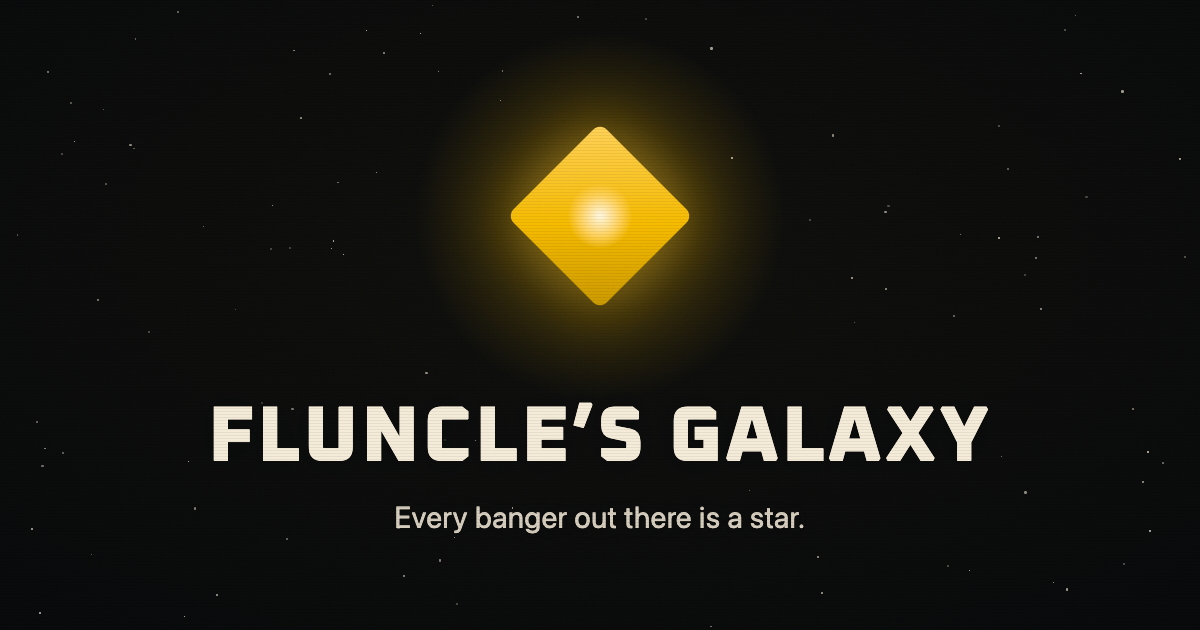
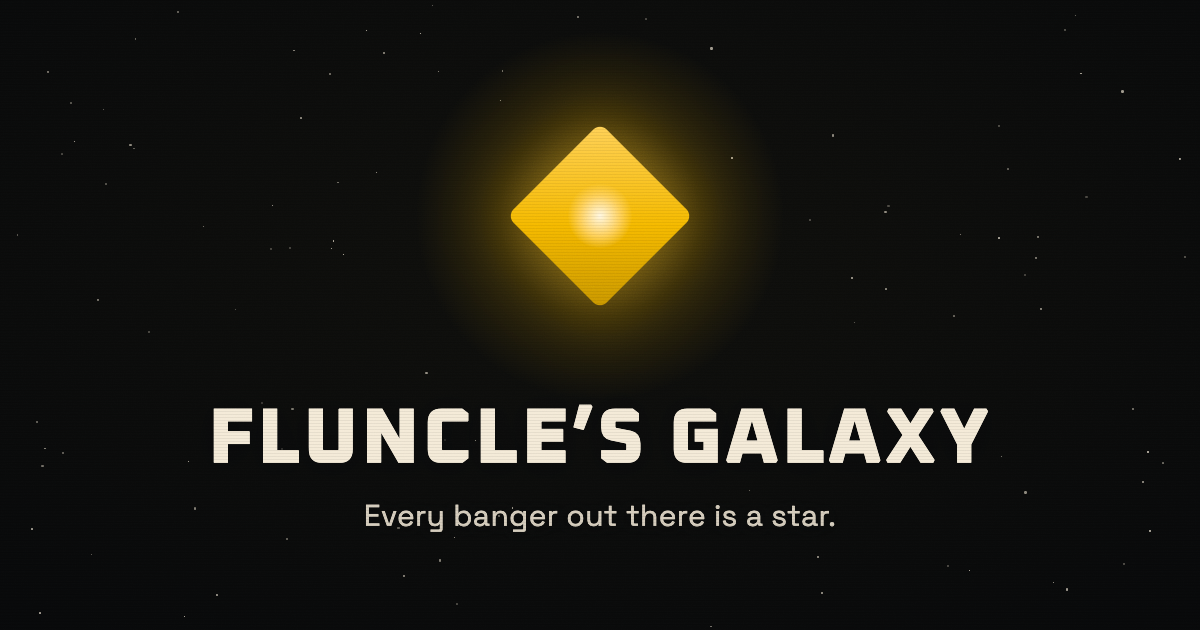
fix(media): the OG card's tagline was a different typeface on every render box (#470)
packages/media embedded Oxanium only — no body face at all. So the /galaxy OG
card's tagline ("Every banger out there is a star.") was set in a bare
`ui-sans-serif, system-ui, sans-serif`, which resolves to Helvetica on a Mac and
DejaVu Sans on a Linux render box: the SAME committed asset shipped in two
different typefaces depending on where it was built. That is a live instance of
the exact three-renderings bug the Canon Travels Rule was written to kill, in the
place the brand is most visible — a link preview.

Brings the package onto DESIGN.md §3:

- fonts.ts embeds Space Grotesk (the body face) alongside Oxanium, weights
  300-700 (700 is its axis ceiling — 800 clamps silently). Exports
  SPACE_GROTESK_STACK.
- BOTH faces now carry the One Box metric overrides (ascent/descent/line-gap),
  ratified in apps/web/src/styles.css. Oxanium previously carried NONE here, so
  its cap band sat 0.055em below its own box centre — the two faces would have
  disagreed on their metric box the moment they met. Subsets are split by
  unicodeRange exactly as the web declares them.
- galaxy-og.tsx sets the tagline in SPACE_GROTESK_STACK. FLUNCLE'S GALAXY stays
  Oxanium 800 (a brand mark). mixtape-cover.tsx is untouched: its coordinate and
  MIXTAPE #N are numerals/marks, so Oxanium is correct by canon.
- Re-rendered and committed apps/web/public/galaxy/og.png. It is a checked-in
  static asset, NOT built at deploy time — fixing the source alone would have
[…]

diff --git a/packages/media/src/remotion/fonts.ts b/packages/media/src/remotion/fonts.ts
@@ -1,10 +1,46 @@
-// Oxanium is the brand voice (DESIGN.md: numerals, marks, brand moments).
-// Loaded from local woff2 files in public/fonts via @remotion/fonts so renders
-// never touch the network. loadFont blocks the render until the font is ready.
+// The brand's two text faces, embedded for the render (DESIGN.md §3).
 //
-// Two subsets ship: latin and latin-ext. Both register under the same family
-// name ("Oxanium") so unicode-range fallback resolves automatically. The files
-// are byte-identical to the apps/web and packages/video copies.
+// Oxanium is the DISPLAY face: brand marks, plate mastheads, and every numeral /
+// coordinate / date. Space Grotesk is the BODY face: reading text, titles, labels.
+// Its variable axis stops at 700 — asking for 800 clamps silently, so no body role
+// may ask for it.
+//
+// THE CANON TRAVELS RULE (DESIGN.md §3). A render environment has no system fonts
+// to inherit and no stylesheet to cascade from, so it must EMBED the faces itself.
+// This package used to embed Oxanium ONLY, and the /galaxy OG card's tagline fell
+// through to a bare `sans-serif` — which resolves to Helvetica on a Mac and DejaVu
+// Sans on a Linux render box. The same committed asset rendered in two different
+// typefaces depending on where it was built: exactly the "three renderings, only one
+// of which we ever looked at" bug the canon exists to kill. Both faces ship now.
+//
+// THE ONE BOX RULE (DESIGN.md §3). Both faces are re-cut to the SAME 1.25em metric
+// box via ascent/descent/line-gap overrides, so that (ascent − descent) equals that
+// face's cap height and the cap band lands on the box centre. That is what makes a
+// plain `align-items: center` optically centre Oxanium and Space Grotesk together —
+// the brand mark and the tagline on one centre line, at any size. These numbers are
+// ratified and byte-for-byte the ones in apps/web/src/styles.css; they are
+// LOAD-BEARING — do not drop or re-derive them when updating a font.
+//
+// Two subsets per face (latin + latin-ext) register under one family name, split by
+// unicodeRange exactly as the web declares them, so glyph coverage resolves the same
+// way here as it does in the browser. The woff2 files under public/fonts are
+// byte-identical to the apps/web copies.
+//
+// WHY loadFont IS SAFE HERE (and is NOT in packages/video). loadFont calls
+// `new FontFace().load()`, and that Promise NEVER SETTLES under the `swangle`
+// software-GL renderer — it would block the render forever via delayRender. That is
+// why packages/video embeds its fonts as base64 @font-face CSS instead. This package
+// gets to use loadFont because every one of its render paths hardcodes ANGLE:
+// remotion.config.ts (`setChromiumOpenGlRenderer("angle")`) covers Studio and the
+// CLI, and all three render scripts pass `chromiumOptions: { gl: "angle" }` to both
+// selectComposition and renderStill. There is deliberately NO FLUNCLE_GL escape hatch
+// here. IF YOU EVER ADD A SOFTWARE-GL PATH TO THIS PACKAGE (a GPU-less box render),
+// THIS FILE MUST MOVE TO THE BASE64 PATTERN IN packages/video/src/remotion/fonts.ts
+// FIRST — otherwise the render hangs rather than fails.
+//
+// Failure is loud by construction: loadFont wraps the load in delayRender and calls
+// cancelRender on error, so a missing or corrupt font FAILS the render instead of
+// silently falling back to the system sans. That silent fallback is the bug.
 //
 // Determinism note: loadFont is a side effect run at module load, not inside a
 // composition, so it does not break frame-determinism.
@@ -12,41 +48,87 @@
 import { loadFont } from "@remotion/fonts";
 import { staticFile } from "remotion";
 
-/** The font family name to reference in `fontFamily`. */
+/** The display family name to reference in `fontFamily`. */
 export const OXANIUM = "Oxanium" as const;
 
-/** Oxanium stack mirroring DESIGN.md's display/numeric roles. */
+/** The body family name to reference in `fontFamily`. */
+export const SPACE_GROTESK = "Space Grotesk" as const;
+
+/** Oxanium stack — DESIGN.md's display/numeric roles (brand marks, coordinates). */
 export const OXANIUM_STACK = "Oxanium, ui-sans-serif, system-ui, sans-serif" as const;
+
+/** Space Grotesk stack — DESIGN.md's body roles (reading text, titles, labels). */
+export const SPACE_GROTESK_STACK = "Space Grotesk, ui-sans-serif, system-ui, sans-serif" as const;
+
+/** The One Box overrides for Oxanium (DESIGN.md §3; mirrors apps/web/src/styles.css). */
+const OXANIUM_BOX = {
+  ascentOverride: "97%",
+  descentOverride: "28%",
+  lineGapOverride: "0%",
+  weight: "200 800",
+} as const;
+
+/** The One Box overrides for Space Grotesk. 700 is the axis ceiling, never 800. */
+const SPACE_GROTESK_BOX = {
+  ascentOverride: "97.5%",
+  descentOverride: "27.5%",
+  lineGapOverride: "0%",
+  weight: "300 700",
+} as const;
+
+/** The latin subset's coverage, as declared in apps/web/src/styles.css. */
+const LATIN_RANGE =
+  "U+0000-00FF, U+0131, U[phone redacted], U+02BB-02BC, U+02C6, U+02DA, U+02DC, U+0304, U+0308, U+0329, U+2000-206F, U+20AC, U+2122, U+2191, U+2193, U+2212, U+2215, U+FEFF, U+FFFD";
+
+/** The latin-ext subset's coverage, as declared in apps/web/src/styles.css. */
+const LATIN_EXT_RANGE =
+  "U+0100-02BA, U+02BD-02C5, U+02C7-02CC, U+02CE-02D7, U+02DD-02FF, U+0304, U+0308, U+0329, U+1D00-1DBF, U+1E00-1E9F, U+1EF2-1EFF, U+2020, U+20A0-20AB, U+20AD-20C0, U+2113, U+2C60-2C7F, U+A720-A7FF";
 
 let loadPromise: Promise<void> | null = null;
 
 /**
- * Loads both Oxanium subsets once and returns the combined promise. Safe to call
- * many times (memoized). Remotion blocks the render on the returned promise via
+ * Loads both subsets of BOTH brand faces once and returns the combined promise.
+ * Safe to call many times (memoized). Remotion blocks the render on each load via
  * delayRender internally, so callers can fire-and-forget at module scope.
  */
-export const loadOxanium = (): Promise<void> => {
+export const loadBrandFonts = (): Promise<void> => {
   if (loadPromise) {
     return loadPromise;
   }
 
   loadPromise = Promise.all([
     loadFont({
+      ...OXANIUM_BOX,
       family: OXANIUM,
       format: "woff2",
+      unicodeRange: LATIN_RANGE,
       url: staticFile("fonts/oxanium-latin.woff2"),
-      weight: "400 800",
     }),
     loadFont({
+      ...OXANIUM_BOX,
       family: OXANIUM,
       format: "woff2",
+      unicodeRange: LATIN_EXT_RANGE,
       url: staticFile("fonts/oxanium-latin-ext.woff2"),
-      weight: "400 800",
+    }),
+    loadFont({
+      ...SPACE_GROTESK_BOX,
+      family: SPACE_GROTESK,
+      format: "woff2",
+      unicodeRange: LATIN_RANGE,
+      url: staticFile("fonts/space-grotesk-latin.woff2"),
+    }),
+    loadFont({
+      ...SPACE_GROTESK_BOX,
+      family: SPACE_GROTESK,
+      format: "woff2",
+      unicodeRange: LATIN_EXT_RANGE,
+      url: staticFile("fonts/space-grotesk-latin-ext.woff2"),
     }),
   ]).then(() => undefined);
 
   return loadPromise;
 };
 
-// Eagerly start loading at import so the font is ready by first paint.
-void loadOxanium();
+// Eagerly start loading at import so both faces are ready by first paint.
+void loadBrandFonts();

diff --git a/packages/media/src/remotion/galaxy-og.tsx b/packages/media/src/remotion/galaxy-og.tsx
@@ -1,7 +1,7 @@
 import { AbsoluteFill, random } from "remotion";
 import { colors } from "@fluncle/tokens";
 
-import { OXANIUM_STACK } from "./fonts";
+import { OXANIUM_STACK, SPACE_GROTESK_STACK } from "./fonts";
 
 // <GalaxyOg> — the Open Graph / link-preview card for the /galaxy route.
 //
@@ -19,7 +19,10 @@ import { OXANIUM_STACK } from "./fonts";
 //     a film-grain wash and faint horizontal scanlines cover the whole card.
 //   - One Voice — "FLUNCLE'S GALAXY" is the brand mark, so it is set in Oxanium
 //     ALL-CAPS (VOICE.md sanctions caps for brand-mark plates). The tagline is
-//     running copy in sentence case, set in Starlight Cream.
+//     running copy in sentence case, so it is Space Grotesk, the body face, in
+//     Starlight Cream — Oxanium speaks only for the brand and the numbers, never
+//     for a sentence. Both faces carry the One Box metric overrides (./fonts), so
+//     the mark and the tagline sit on one optical centre line.
 //
 // Determinism: the starfield is seeded via Remotion's random(), never
 // Math.random(), so the still renders identically every time.
@@ -176,7 +179,7 @@ export const GalaxyOg: React.FC = () => {
         <div
           style={{
             color: colors.starlightCream,
-            fontFamily: "ui-sans-serif, system-ui, sans-serif",
+            fontFamily: SPACE_GROTESK_STACK,
             fontSize: 30,
             fontWeight: 400,
             letterSpacing: "0.01em",

diff --git a/packages/media/README.md b/packages/media/README.md
@@ -4,7 +4,7 @@ Reusable **image-asset** rendering for Fluncle. Where [`@fluncle/video`](../vide
 
 ## The first asset: the Galaxy OG card
 
-`src/remotion/galaxy-og.tsx` is the Open Graph / link-preview card for the `/galaxy` route (1200×630). It is a gate screen in the Nostalgic Cosmos: a warm near-black Deep Field ground, a single Eclipse-Gold banger-diamond (the One Sun, the game's star motif) with a soft Eclipse-Glow halo, a quiet seeded starfield, the `FLUNCLE'S GALAXY` brand mark in Oxanium caps, the tagline _Every banger out there is a star._ in Starlight Cream, and a grain + scanline wash over the whole frame (the Light-Years Rule). It obeys the canon in code: One Sun (exactly one gold light, ~10% of the frame), Warm Dark (no cold black, no rival gradient), Light-Years (grain + scanlines always on).
+`src/remotion/galaxy-og.tsx` is the Open Graph / link-preview card for the `/galaxy` route (1200×630). It is a gate screen in the Nostalgic Cosmos: a warm near-black Deep Field ground, a single Eclipse-Gold banger-diamond (the One Sun, the game's star motif) with a soft Eclipse-Glow halo, a quiet seeded starfield, the `FLUNCLE'S GALAXY` brand mark in Oxanium caps, the tagline _Every banger out there is a star._ in Space Grotesk (the body face — Oxanium never sets a sentence) in Starlight Cream, and a grain + scanline wash over the whole frame (the Light-Years Rule). It obeys the canon in code: One Sun (exactly one gold light, ~10% of the frame), Warm Dark (no cold black, no rival gradient), Light-Years (grain + scanlines always on).
 
 It renders to `apps/web/public/galaxy/og.png`, which is a **committed static asset** — it is NOT built at deploy time. The `/galaxy` route's `head()` points `og:image` at `/galaxy/og.png`. Regenerate and commit it when the card's design changes.
 
@@ -18,9 +18,10 @@ The **safe-area contract**: platforms crop a banner differently across devices, 
 
 ## Conventions (mirrors `@fluncle/video`)
 
-- **Code-generated, deterministic.** Everything on screen is generated from code — CSS, SVG, transforms — so a render is reproducible from source alone. The bitmap exceptions are the fonts (Oxanium woff2 under `public/fonts`, byte-identical to the `apps/web` copies) and the cosmonaut cutout (`public/fluncle-cosmonaut.png`, Maurice's founding artwork — the one image we composite rather than re-draw). No `Math.random()` and no wall-clock time inside a composition; seed any procedural layer via Remotion's `random()`.
+- **Code-generated, deterministic.** Everything on screen is generated from code — CSS, SVG, transforms — so a render is reproducible from source alone. The bitmap exceptions are the fonts (Oxanium + Space Grotesk woff2 under `public/fonts`, byte-identical to the `apps/web` copies) and the cosmonaut cutout (`public/fluncle-cosmonaut.png`, Maurice's founding artwork — the one image we composite rather than re-draw). No `Math.random()` and no wall-clock time inside a composition; seed any procedural layer via Remotion's `random()`.
 - **Tokens, not hex literals chosen by hand.** Colors come from [`@fluncle/tokens`](../tokens) (`colors.deepField`, `colors.eclipseGold`, …), which mirrors DESIGN.md.
-- **ANGLE GL.** `remotion.config.ts` and the render script set `gl: "angle"` (Metal on Apple Silicon) so any WebGL-backed layer has a real headless context, matching `@fluncle/video`.
+- **Both brand faces are EMBEDDED, with their metric overrides.** `src/remotion/fonts.ts` loads Oxanium (display: brand marks, and every numeral/coordinate/date) and Space Grotesk (body: reading text, titles, labels — max weight 700, its axis ceiling), each carrying the One Box `ascent`/`descent`/`line-gap` overrides from DESIGN.md §3 so the two faces sit on one optical centre line. This is the **Canon Travels Rule**: a render environment has no system fonts and no stylesheet to cascade from, so it must embed the faces itself. Never set text here in a bare `sans-serif` — that resolves to Helvetica on a Mac and DejaVu Sans on a Linux box, and the same committed asset ships in two different typefaces. Use `OXANIUM_STACK` or `SPACE_GROTESK_STACK`.
+- **ANGLE GL — and it is load-bearing for the fonts.** `remotion.config.ts` and all three render scripts set `gl: "angle"` (Metal on Apple Silicon) so any WebGL-backed layer has a real headless context, matching `@fluncle/video`. It also keeps `@remotion/fonts`' `loadFont` viable: `loadFont` calls `new FontFace().load()`, whose Promise **never settles under the `swangle` software-GL renderer** (which is why `@fluncle/video` embeds its fonts as base64 `@font-face` CSS instead). There is deliberately no `FLUNCLE_GL` escape hatch here. **If you ever add a software-GL path to this package, move `fonts.ts` to the base64 pattern first** — otherwise the render hangs rather than fails.
 
 ## Regenerate the OG card
 